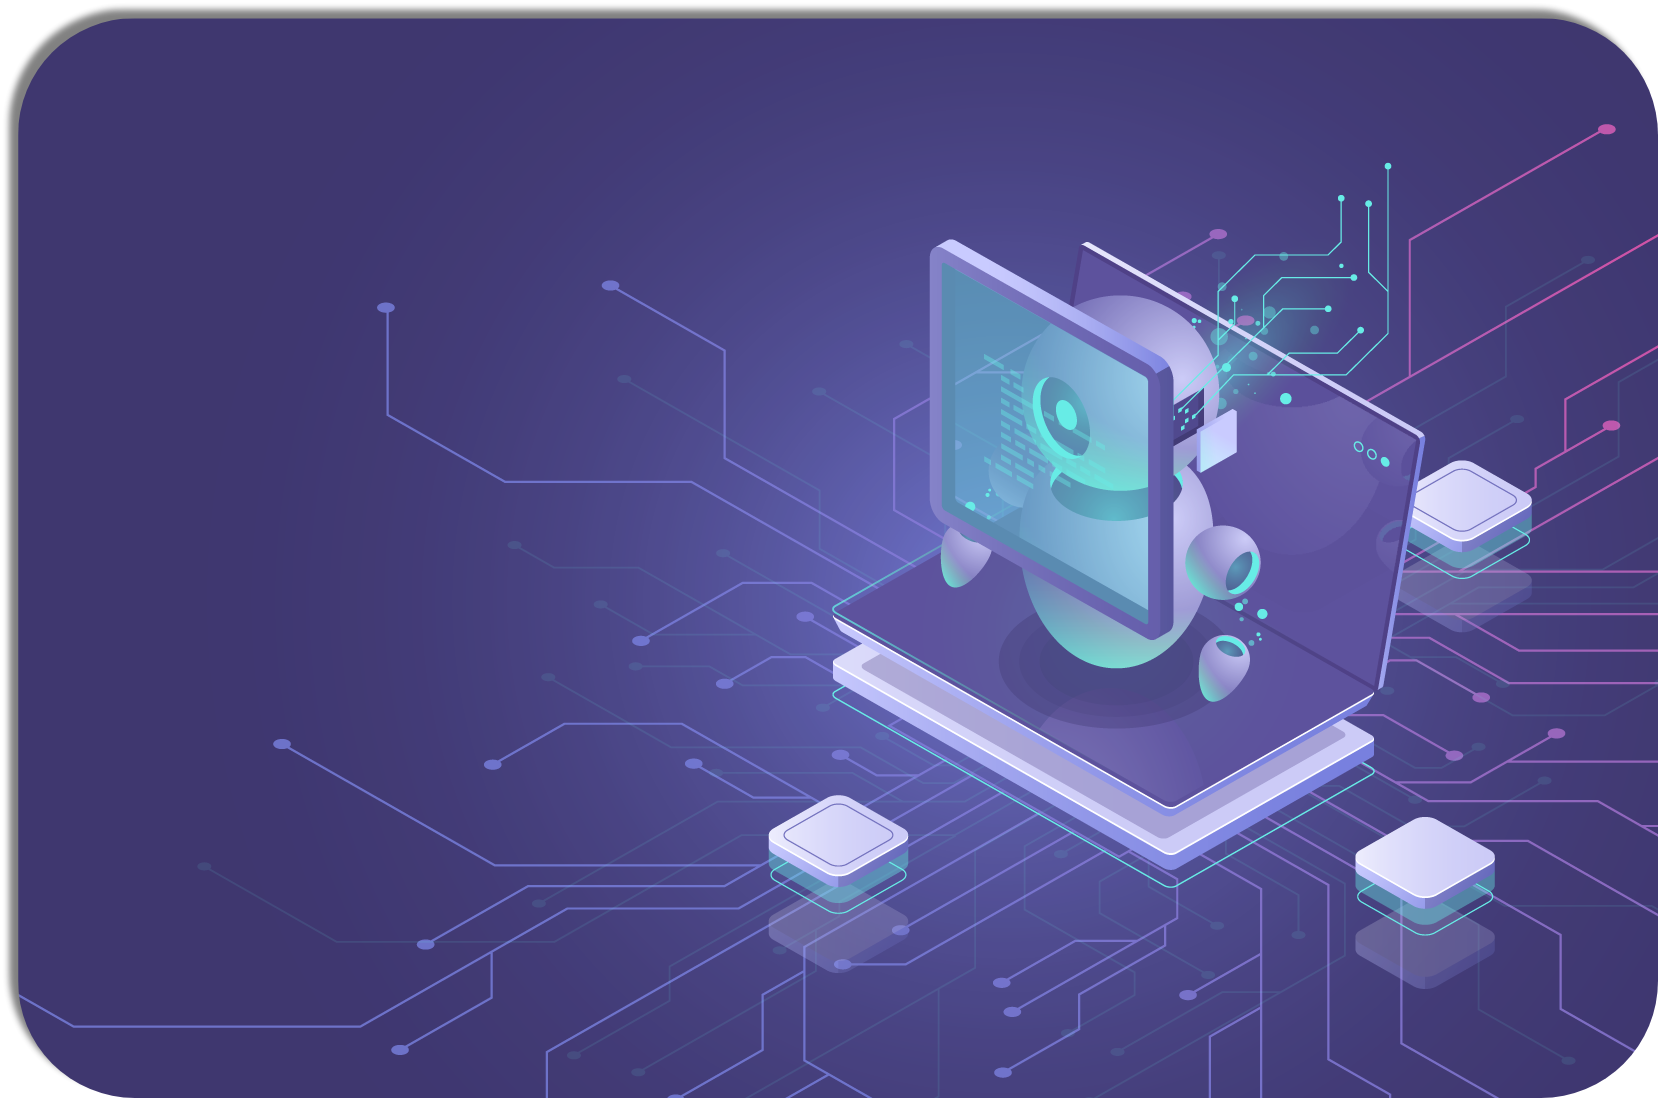
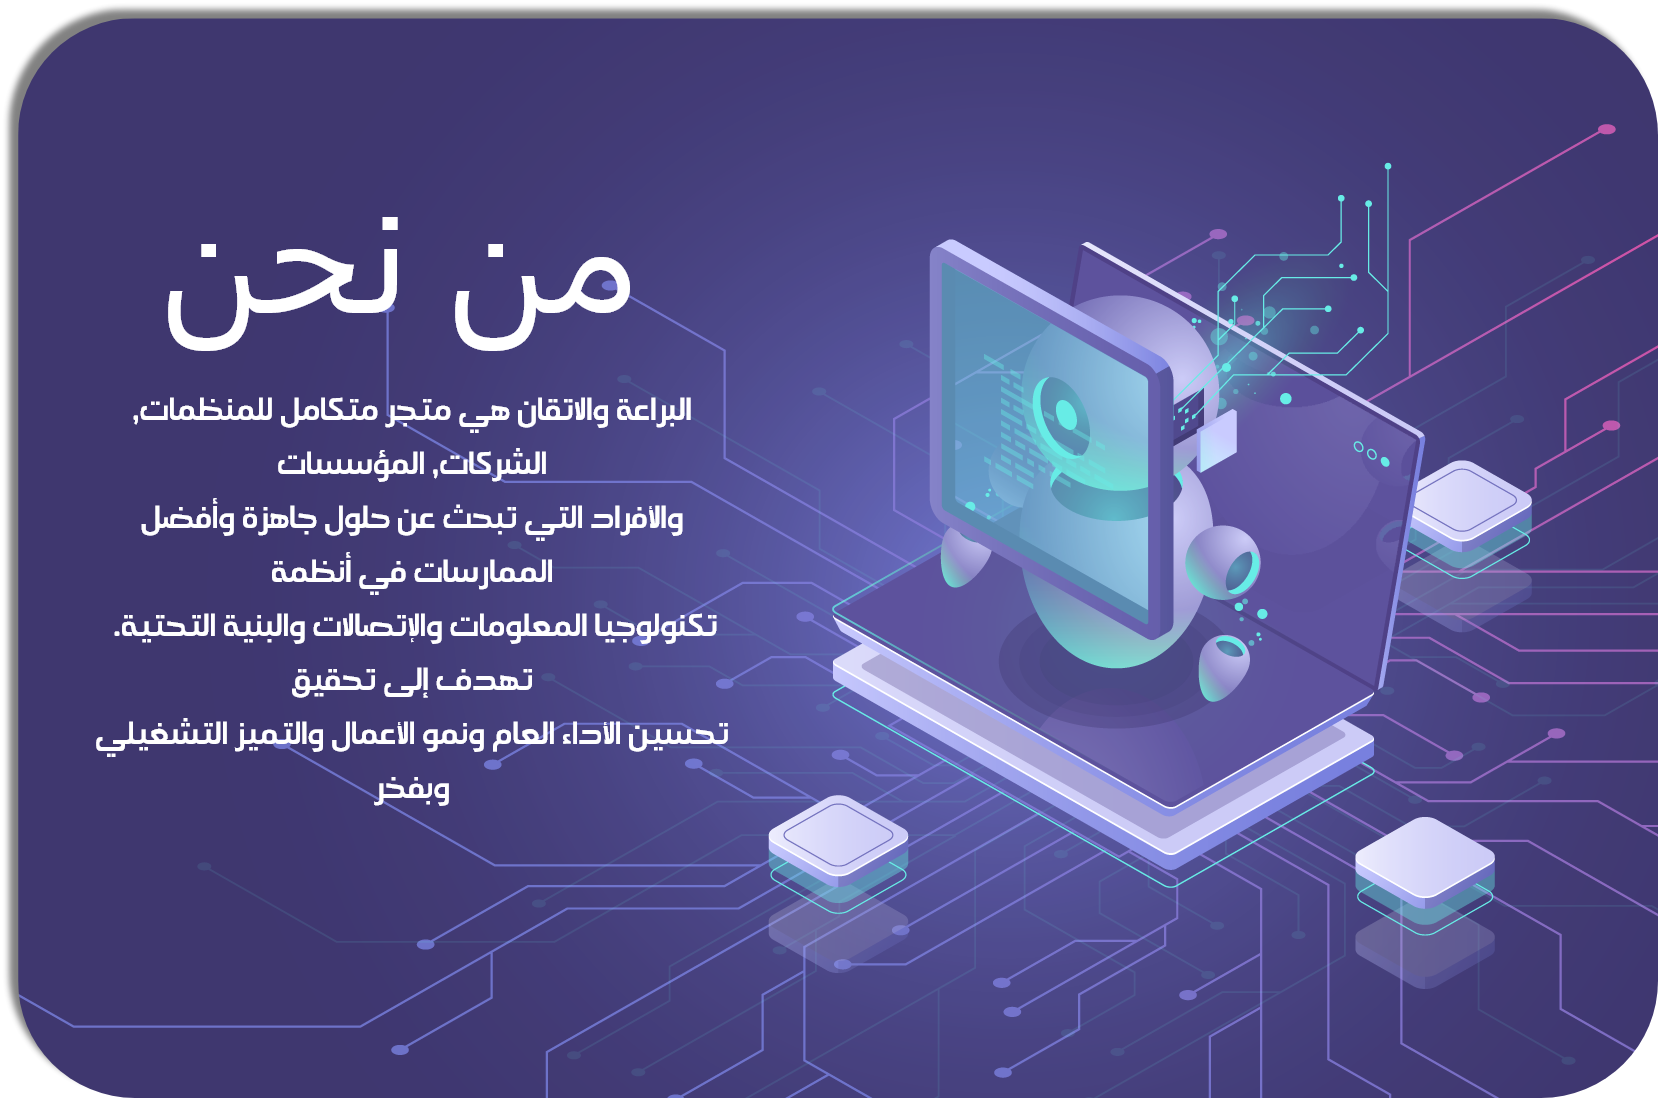
Add files via upload

diff --git a/index.html b/index.html
@@ -151,14 +151,7 @@
           <div class="img-content">
               <img src="img/Rectangle 1.png" >
           </div>
-          <div class="text-content">
          
-          <h1>من نحن</h1>
-          <p>البراعة والاتقان هي متجر متكامل للمنظمات, الشركات, المؤسسات</p>
-          <p>والأفراد التي تبحث عن حلول جاهزة وأفضل الممارسات في أنظمة</p>
-          <p>تكنولوجيا المعلومات والإتصالات والبنية التحتية. تهدف إلى تحقيق</p>
-          <p>تحسين الأداء العام ونمو الأعمال والتميز التشغيلي وبفخر</p></div>
-        </div>   
 
        
 

diff --git a/css/style.css b/css/style.css
@@ -134,7 +134,7 @@
 @media(max-width:991px){
     .carousel-caption {
        
-        left: -50%;
+        left: -40%;
         bottom: 170px;
     }
     .carousel-caption h1 {
@@ -253,29 +253,8 @@
   width: 100%
      
  }
- .who  .text-content{
-  position: absolute;
-  text-align: center;
-  color: #fff;
-  font-family: 'Hamah';
-  font-size: 22px
-}
-.who  .text-content h1 {
-    font-size: 50px
-  }
-@media(max-width:771px){
-    .who  .text-content p{
-       
-        font-size: 16px;
-        
-        max-width: 200px;
-        margin-bottom: 0;
 
-      }
-      .who  .text-content h1 {
-          font-size: 20px
-        }
-}
+
 /************************why********************/
 .why {
     text-align: center;
